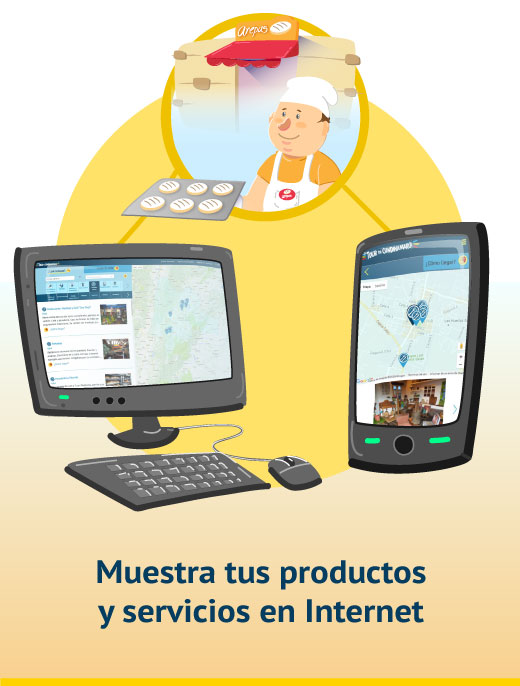
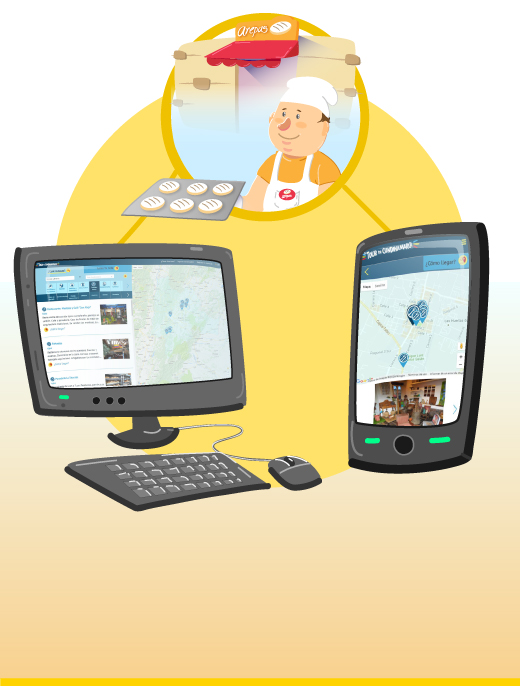
Se cambian las imágenes estáticas por imagenes sin texto y se agrega la traduccion de los textos

Changed region(s): [[0.1846, 0.7959, 0.8308, 0.9184], [0.5231, 0.2143, 0.5538, 0.2449]]

diff --git a/public/js/howItWorks/howItWorksTrader/howItWorksTrader.css b/public/js/howItWorks/howItWorksTrader/howItWorksTrader.css
@@ -1,42 +1,96 @@
-.how-works-trader-register-button-container{
-    margin-top: 10px;
+.how-it-works-trader .images-section {
+    max-width: 1200px;
+    margin: 0 auto;
 }
 
-.how-works-trader-register-button{
-    display: flex;
-    flex-flow: row wrap;
-    justify-content: center;
+.how-it-works-trader .title {
+    color: #097da6;
+    font-weight: bold;
+    font-size: 24px;
+    padding: 20px 5px;
 }
 
-
-/* Extra small devices (phones, less than 768px) */
-@media (max-width: 767px) {
-    .how-works-trader-register-image{
-        width: 90%;
-        height: 90%;
-    }
+.how-it-works-trader img {
+    width: 100%;
+    padding: 20px 0;
 }
 
-/* Small devices (tablets, 768px and up) */
+.how-it-works-trader .description {
+    font-size: 6vw;
+    font-weight: bolder;
+    color: #097da6;
+    /*line-height: 20px;*/
+    position: absolute;
+    right: 25px;
+    left: 25px;
+}
+
+.how-it-works-trader .register-section {
+    max-width: 768px;
+    margin: 0 auto;
+}
+
+.description1 {
+    bottom: 12vw;
+}
+
+.description2 {
+    bottom: 12vw;
+}
+
+.description3 {
+    bottom: 12vw;
+}
+
+.how-it-works-trader .reg-button h1 {
+    font-size: 6vw;
+    font-weight: bolder;
+    color: #fff;
+    position: absolute;
+    right: 25px;
+    left: 25px;
+    bottom: 6vw;
+}
+
 @media (min-width: 768px) {
-    .how-works-trader-register-image{
-        width: 90%;
-        height: 90%;
+    .how-it-works-trader .title {
+        font-size: 40px;
+    }
+
+    .how-it-works-trader .description {
+        font-size: 35px;
+    }
+
+    .how-it-works-trader .reg-button h1 {
+        font-size: 40px;
+        bottom: 38px;
     }
 }
 
-/* Medium devices (desktops, 992px and up) */
 @media (min-width: 992px) {
-    .how-works-trader-register-image{
-        width: auto;
-        height: auto;
+    .how-it-works-trader .title {
+        font-size: 30px;
+    }
+
+    .how-it-works-trader .description {
+        font-size: 22px;
+    }
+
+    .description1 {
+        bottom: 40px;
+    }
+
+    .description2 {
+        bottom: 40px;
+    }
+
+    .description3 {
+        bottom: 40px;
     }
 }
 
-/* Large devices (large desktops, 1200px and up) */
 @media (min-width: 1200px) {
-    .how-works-trader-register-image{
-        width: auto;
-        height: auto;
+    .how-it-works-trader .title {
+        font-size: 35px;
     }
 }

diff --git a/public/js/howItWorks/howItWorks.css b/public/js/howItWorks/howItWorks.css
@@ -1,21 +1,21 @@
-.how-it-works-container .images-section {
+.how-it-works-tourist .images-section {
     max-width: 1200px;
     margin: 0;
 }
 
-.how-it-works-container .title {
+.how-it-works-tourist .title {
     color: #097da6;
     font-weight: bold;
     font-size: 24px;
     padding: 20px 5px;
 }
 
-.how-it-works-container img {
+.how-it-works-tourist img {
     width: 100%;
     padding: 20px 0;
 }
 
-.how-it-works-container .description {
+.how-it-works-tourist .description {
     font-size: 6vw;
     font-weight: bolder;
     color: #097da6;
@@ -23,6 +23,11 @@
     position: absolute;
     right: 25px;
     left: 25px;
+}
+
+.how-it-works-tourist .register-section {
+    max-width: 768px;
+    margin: 0 auto;
 }
 
 .description1 {
@@ -37,26 +42,45 @@
     bottom: 12vw;
 }
 
+/*.register-button img {
+    width: 100%;
+}*/
+
+.how-it-works-tourist .reg-button h1 {
+    font-size: 6vw;
+    font-weight: bolder;
+    color: #fff;
+    position: absolute;
+    right: 25px;
+    left: 25px;
+    bottom: 8vw;
+}
+
 @media (min-width: 768px) {
-    .how-it-works-container .title {
+    .how-it-works-tourist .title {
         font-size: 30px;
     }
 
-    .how-it-works-container .images-section {
+    .how-it-works-tourist .images-section {
         margin: 15px auto;
     }
 
-    .how-it-works-container .description {
+    .how-it-works-tourist .description {
 
+    }
+
+    .how-it-works-tourist .reg-button h1 {
+        font-size: 40px;
+        bottom: 60px;
     }
 }
 
 @media (min-width: 992px) {
-    .how-it-works-container .title {
+    .how-it-works-tourist .title {
         font-size: 30px;
     }
 
-    .how-it-works-container .description {
+    .how-it-works-tourist .description {
         font-size: 18px;
     }
 
@@ -74,11 +98,11 @@
 }
 
 @media (min-width: 1200px) {
-    .how-it-works-container .title {
+    .how-it-works-tourist .title {
         font-size: 35px;
     }
 
-    .how-it-works-container .description {
+    .how-it-works-tourist .description {
         font-size: 20px;
     }
 }

diff --git a/public/js/howItWorks/howItWorksTrader/howItWorksTrader.html b/public/js/howItWorks/howItWorksTrader/howItWorksTrader.html
@@ -1,21 +1,27 @@
 <app-header></app-header>
-<div class="how-it-works-container text-center">
+<div class="how-it-works-trader text-center">
     <div class="row images-section">
-        <h1 class="col-sm-12 text-center title" translate="HOW_IT_WORKS_TRADER_CONSTANTS.PAGE_TITLE"></h1>
+        <h1 class="col-sm-12 text-center title" translate="HOW_IT_WORKS_TRADER.PAGE_TITLE"></h1>
         <div class="col-sm-12 col-md-4">
             <img src="images/howItWorks/howItWorksTrader/comerciante1.jpg">
+            <h1 class="description1 description" translate="HOW_IT_WORKS_TRADER.DESCRIPTION_1"></h1>
         </div>
         <div class="col-sm-12 col-md-4">
             <img src="images/howItWorks/howItWorksTrader/comerciante2.jpg">
+            <h1 class="description description2" translate="HOW_IT_WORKS_TRADER.DESCRIPTION_2"></h1>
         </div>
         <div class="col-sm-12 col-md-4">
             <img src="images/howItWorks/howItWorksTrader/comerciante3.jpg">
+            <h1 class="description description3" translate="HOW_IT_WORKS_TRADER.DESCRIPTION_3"></h1>
         </div>
     </div>
-</div>
-<div class="row how-works-trader-register-button-container">
-    <div class="how-works-trader-register-button">
-        <img class="how-works-trader-register-image" ng-click="goToRegisterSite()" src="images/howItWorks/howItWorksTrader/Boton-inscribe-comercio.png">
+
+    <div class="row register-section">
+        <div class="col-sm-12 text-center reg-button">
+            <img class="" ng-click="goToRegisterSite()"
+                 src="images/howItWorks/howItWorksTrader/Boton-inscribe-comercio.png">
+            <h1 class="" translate="HOW_IT_WORKS_TRADER.REGISTER_BUTTON"></h1>
+        </div>
     </div>
 </div>
 <app-footer></app-footer>

diff --git a/public/index.html b/public/index.html
@@ -12,7 +12,7 @@
     <link rel="stylesheet" href="js/home/home.css"/>
     <link rel="stylesheet" href="js/businessBrowser/autocomplete.css"/>
     <link rel="stylesheet" href="js/dropDownTowns/drop-Down_Towns.css"/>
-    <link rel="stylesheet" href="js/howItWorks/howitworks.css"/>
+    <link rel="stylesheet" href="js/howItWorks/howItWorks.css"/>
     <link rel="stylesheet" href="js/howItWorks/howItWorksTrader/howItWorksTrader.css"/>
     <link rel="stylesheet" href="js/header/app-header.css"/>
     <link rel="stylesheet" href="js/footer/app-footer.css"/>

diff --git a/public/js/howItWorks/howItWorks.html b/public/js/howItWorks/howItWorks.html
@@ -1,5 +1,5 @@
 <app-header></app-header>
-<div class="how-it-works-container text-center">
+<div class="how-it-works-tourist text-center">
     <div class="row images-section">
         <h1 class="col-sm-12 text-center title" translate="HOW_IT_WORKS.TITLE"></h1>
         <div class="col-sm-12 col-md-4">
